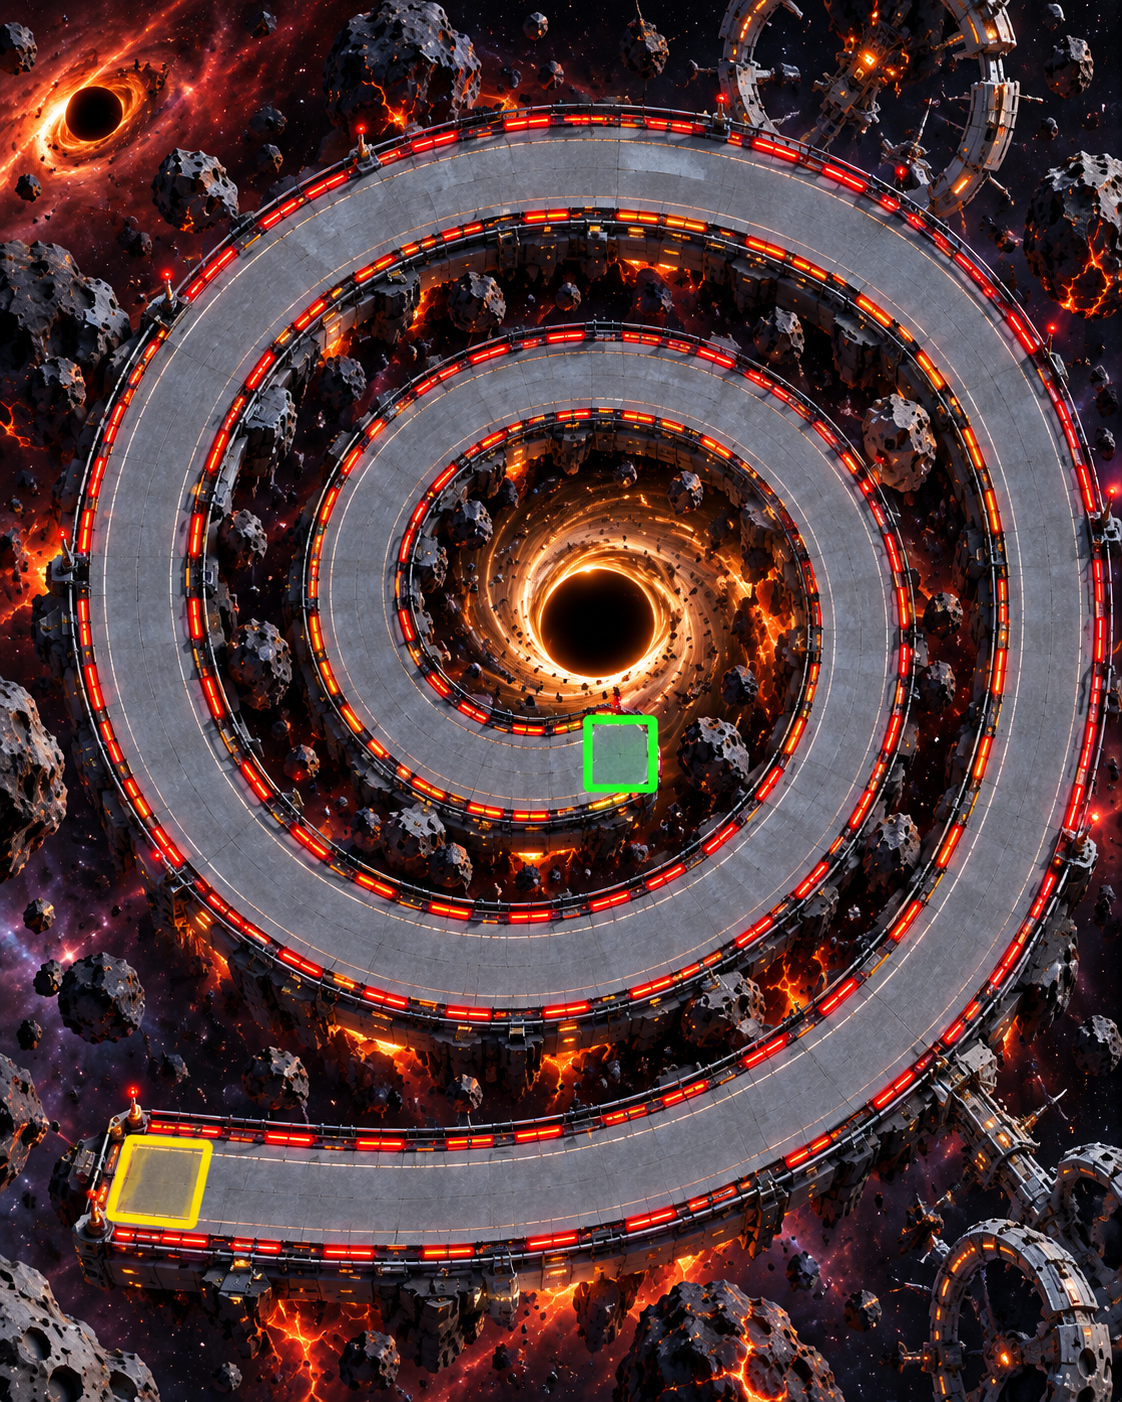
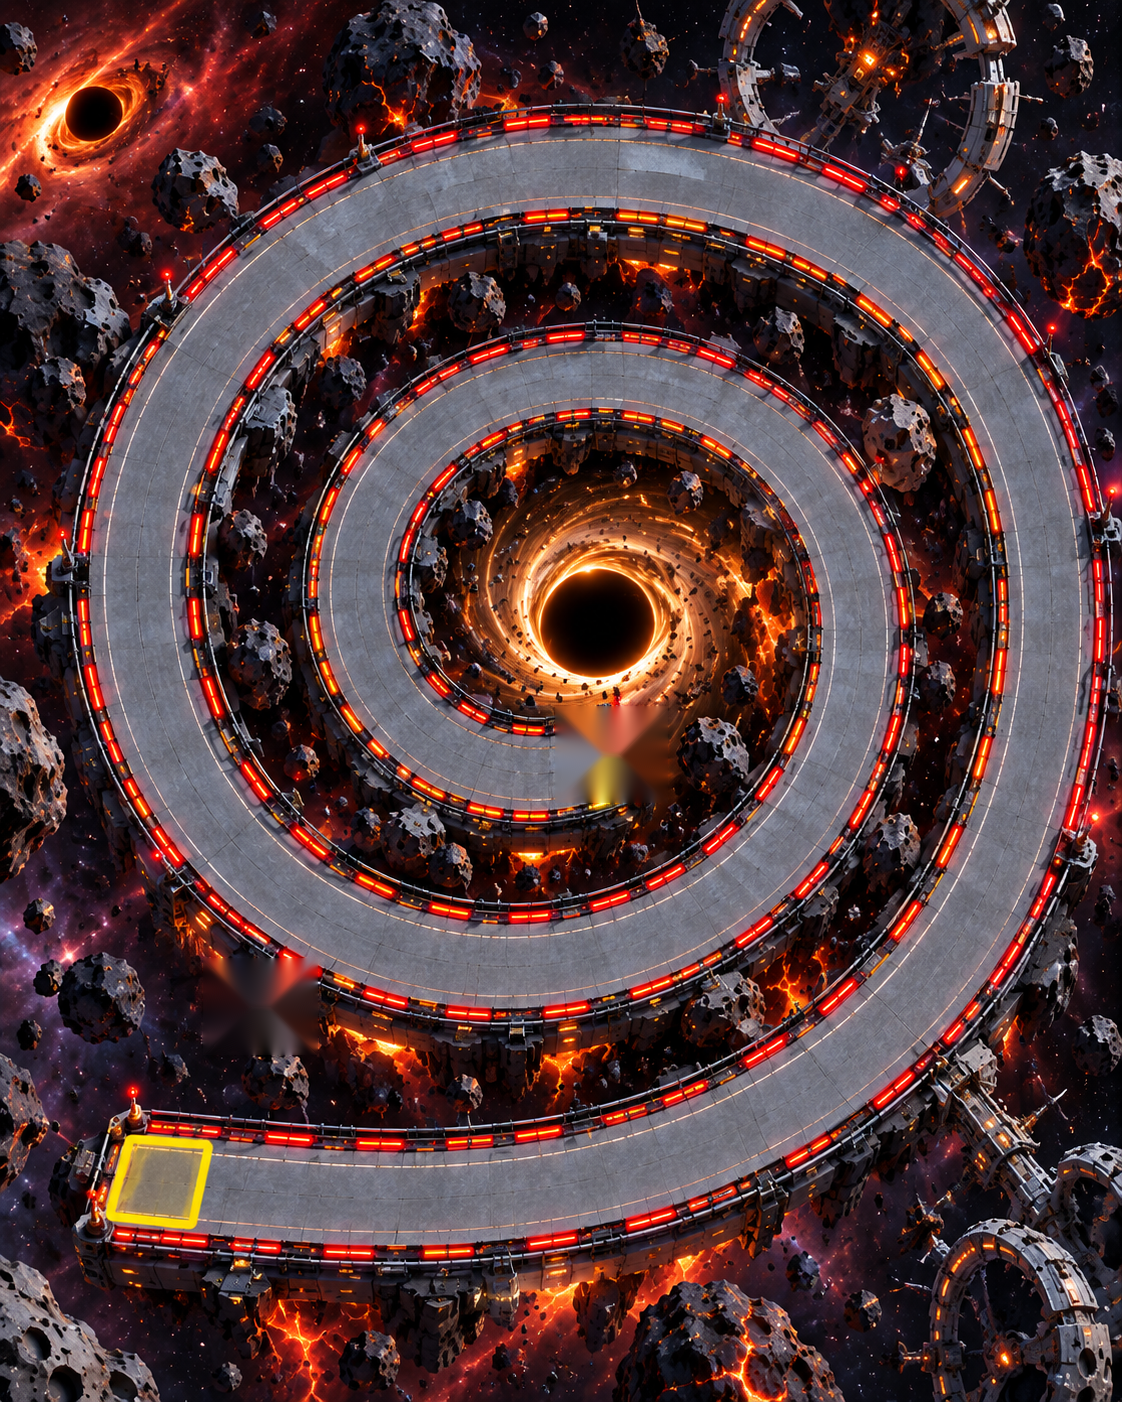
Add files via upload

Changed region(s): [[0.4991, 0.4907, 0.5927, 0.5827], [0.1872, 0.6748, 0.2807, 0.7668]]

diff --git a/game.js b/game.js
@@ -27,7 +27,7 @@
   const STUN_MS = 0;
   const INV_MS = 0;
   const CAMERA_ZOOM = 3.00;
-  const BUILD_ID = "v7.77";
+  const BUILD_ID = "v7.78";
 window.__OBSERVER_FM_BUILD__ = BUILD_ID;
 
   const RACER_KEYS=["A","B","C","D","E","F","G","H"];
@@ -269,7 +269,10 @@ window.__OBSERVER_FM_BUILD__ = BUILD_ID;
   function mapPoolPublic770(){
     return MAP_POOL_770.map(m=>({
       id:m.id,slot:m.slot,name:m.name,en:m.en,theme:m.theme,tags:[...(m.tags||[])],
-      geometryReady:!!m.geometryReady,special:{...(m.special||{})},observerProfile:m.observerProfile
+      geometryReady:!!m.geometryReady,special:{...(m.special||{})},observerProfile:m.observerProfile,
+      courseType:m.courseType775||"point-to-point",lapRequired:!!m.lapRequired775,
+      finishRule:m.finishRule775||"end-gate",sharedGate778:!!m.sharedGate778,
+      start:{...(m.start||{})},finish:{...(m.goal||{})}
     }));
   }
 
@@ -5798,6 +5801,56 @@ applyMapSet776();
   }
   applyGeometry777();
 
+  // ============================================================
+  // v7.78 — SHARED RED START/FINISH + ROAD-FOLLOWING LINE LIMIT
+  // Normal driving on new maps follows the traced road. Large apex/string-pull
+  // cuts are disabled so nearby parallel road sections cannot be mistaken for
+  // a legal macro shortcut. Observer EVADE/REJOIN remains independent.
+  // ============================================================
+  function conservativeRacingLine778(m){
+    let line=densifyLine772(m.route770||[],.82);
+    // One light legality-aware smoothing pass: removes polygonal kinks without
+    // creating a new macro chord across an inner island or adjacent road.
+    line=smoothLegalLine772(m,line,1);
+    line=densifyLine772(line,.68);
+    if(line.length<3)line=(m.route770||[]).map(q=>[q[0],q[1]]);
+    if(line.length){
+      line[0]=[m.route770[0][0],m.route770[0][1]];
+      line[line.length-1]=[m.route770[m.route770.length-1][0],m.route770[m.route770.length-1][1]];
+    }
+    return line;
+  }
+
+  function applyRoadFollow778(){
+    for(const m of MAP_POOL_770){
+      if(m.id==="s_map"){
+        m.sharedGate778=false;
+        continue;
+      }
+      const line=conservativeRacingLine778(m);
+      m.racingSpline770=line;
+      m.globalOptimal770=line;
+      m.racingLineMode772="generated-v7.78";
+      m.strictRoadFollow778=true;
+
+      const sx=(m.safeZones.start.x0+m.safeZones.start.x1)*.5;
+      const sy=(m.safeZones.start.y0+m.safeZones.start.y1)*.5;
+      const gx=(m.safeZones.goal.x0+m.safeZones.goal.x1)*.5;
+      const gy=(m.safeZones.goal.y0+m.safeZones.goal.y1)*.5;
+      m.sharedGate778=!!m.lapRequired775 && Math.hypot(sx-gx,sy-gy)<.75;
+    }
+    // Heart uses a visibly larger common gate as requested.
+    const heart=MAP_DEFINITIONS_770.neon_city;
+    if(heart?.sharedGate778){
+      const c=[heart.start.x,heart.start.y],h=7.0;
+      heart.safeZones={
+        start:{x0:c[0]-h,y0:c[1]-h,x1:c[0]+h,y1:c[1]+h},
+        goal:{x0:c[0]-h,y0:c[1]-h,x1:c[0]+h,y1:c[1]+h}
+      };
+    }
+  }
+  applyRoadFollow778();
+
   function mapLapRule775(m=currentMap770()){
     return {
       type:m.courseType775||"point-to-point",
@@ -6154,7 +6207,8 @@ applyMapSet776();
     const miss=(1-line739)*.58;
     const variance739=(1-ex.consistency)*.13;
     const stable=.88+variance739*Math.sin(progress*.035+(p.index||0)*.73);
-    let off=wideSide*Math.min(.70,Math.max(0,miss*stable));
+    const maxExecOff778=currentMap770().strictRoadFollow778?.28:.70;
+    let off=wideSide*Math.min(maxExecOff778,Math.max(0,miss*stable));
 
     // v7.31 local smoothing only:
     // reduce execution-offset authority through the two C1 transition curves so
@@ -6753,7 +6807,8 @@ applyMapSet776();
   function normalTarget720(p){
     const old=Number.isFinite(p._splineProg720)?p._splineProg720:nearestSplineProgress720(p.x,p.y);
     const prog=Math.max(old,Number(p._splineFloor754)||0);
-    const q=executedSplinePoint720(p,Math.min(RACING_SPLINE_SEGS_720.total,prog+8.0));
+    const look=currentMap770().strictRoadFollow778?4.2:8.0;
+    const q=executedSplinePoint720(p,Math.min(RACING_SPLINE_SEGS_720.total,prog+look));
     return {x:q.x,y:q.y,kind:"race720-normal"};
   }
 
@@ -8835,10 +8890,13 @@ targetOff=clampRoadOffset(si,targetOff,p);
     };
     const smx=(zones775.start.x0+zones775.start.x1)*.5,smy=(zones775.start.y0+zones775.start.y1)*.5;
     const gmx=(zones775.goal.x0+zones775.goal.x1)*.5,gmy=(zones775.goal.y0+zones775.goal.y1)*.5;
-    miniZone775(zones775.start,"#ffd92f");
-    if(Math.hypot(smx-gmx,smy-gmy)<.75){
-      miniZone775({...zones775.goal,x0:(zones775.goal.x0+zones775.goal.x1)*.5},"#39ff6a");
-    }else miniZone775(zones775.goal,"#39ff6a");
+    const shared778=!!currentMap770().sharedGate778 || Math.hypot(smx-gmx,smy-gmy)<.75;
+    if(shared778){
+      miniZone775(zones775.start,"#ff3b3b");
+    }else{
+      miniZone775(zones775.start,"#ffd92f");
+      miniZone775(zones775.goal,"#39ff6a");
+    }
 
     for(let i=0;i<players.length;i++){
       const p=players[i];
@@ -8892,11 +8950,15 @@ targetOff=clampRoadOffset(si,targetOff,p);
   function drawStartFinish775(view){
     if(!view)return;
     const zones=safeZones770();
-    const drawZone=(z,color)=>{
+    const drawZone=(z,color,fill=false)=>{
       const x=(z.x0-view.sx)*view.scale,y=(z.y0-view.sy)*view.scale;
       const w=(z.x1-z.x0)*view.scale,h=(z.y1-z.y0)*view.scale;
       if(x+w<0||y+h<0||x>canvas.width||y>canvas.height)return;
       ctx.save();
+      if(fill){
+        ctx.fillStyle="rgba(255,38,38,.72)";
+        ctx.fillRect(x,y,w,h);
+      }
       ctx.strokeStyle=color;
       ctx.lineWidth=Math.max(2.5,Math.min(6,view.scale*.75));
       ctx.shadowColor=color;ctx.shadowBlur=Math.max(2,view.scale*.7);
@@ -8905,11 +8967,9 @@ targetOff=clampRoadOffset(si,targetOff,p);
     };
     const scx=(zones.start.x0+zones.start.x1)*.5,scy=(zones.start.y0+zones.start.y1)*.5;
     const gcx=(zones.goal.x0+zones.goal.x1)*.5,gcy=(zones.goal.y0+zones.goal.y1)*.5;
-    const sameGate777=Math.hypot(scx-gcx,scy-gcy)<.75;
-    if(sameGate777){
-      drawZone(zones.start,"#ffd92f");
-      const g={...zones.goal,x0:(zones.goal.x0+zones.goal.x1)*.5};
-      drawZone(g,"#39ff6a");
+    const sameGate778=!!currentMap770().sharedGate778 || Math.hypot(scx-gcx,scy-gcy)<.75;
+    if(sameGate778){
+      drawZone(zones.start,"#ff3b3b",true);
     }else{
       drawZone(zones.start,"#ffd92f");
       drawZone(zones.goal,"#39ff6a");
@@ -10607,11 +10667,13 @@ function seasonCardHtml(p){
     if(names.length!==12||new Set(names).size!==12)issues.push("선수12");
     if(OBSERVER_COUNT!==130)issues.push("옵저버130");
     if(MAP_POOL_770.length!==9)issues.push("맵풀9-777");
-    if(!MAP_POOL_770.every(m=>m.geometryReady&&m.route770&&m.racingSpline770))issues.push("11맵지오메트리");
+    if(!MAP_POOL_770.every(m=>m.geometryReady&&m.route770&&m.racingSpline770))issues.push("9맵지오메트리");
     if(MAP_POOL_770.some(m=>m.id!=="s_map"&&(m.extraRoads771||[]).length))issues.push("임의지름길");
-    if(MAP_POOL_770.some(m=>m.id!=="s_map"&&m.racingLineMode772!=="generated-v7.77"))issues.push("레이싱라인775");
+    if(MAP_POOL_770.some(m=>m.id!=="s_map"&&m.racingLineMode772!=="generated-v7.78"))issues.push("레이싱라인775");
     if([...CIRCUIT_MAPS_775].some(id=>!MAP_DEFINITIONS_770[id]?.lapRequired775))issues.push("폐회로완주775");
     if([...POINT_TO_POINT_MAPS_775].some(id=>MAP_DEFINITIONS_770[id]?.lapRequired775))issues.push("P2P완주775");
+    if([...CIRCUIT_MAPS_775].some(id=>!MAP_DEFINITIONS_770[id]?.sharedGate778))issues.push("공용빨강게이트778");
+    if(MAP_POOL_770.some(m=>m.id!=="s_map"&&!m.strictRoadFollow778))issues.push("도로추종778");
     if(MAP_POOL_770.some(m=>m.id!=="s_map"&&!m.approvedImageShape772))issues.push("확정맵이미지");
     if(!currentMap770().geometryReady||route.length<2||RACING_SPLINE_720.length<2)issues.push("맵지오메트리");
     if(MAP_POOL_770.length!==9)issues.push("9맵구성777");

diff --git a/index.html b/index.html
@@ -6,7 +6,7 @@
   <meta http-equiv="Expires" content="0">
   <meta charset="utf-8">
   <meta name="viewport" content="width=device-width,initial-scale=1">
-  <title>Observer Avoid FM v7.77 — Road Geometry QA</title>
+  <title>Observer Avoid FM v7.78 — Road Follow</title>
   <link rel="stylesheet" href="style.css">
 
   <style id="mapSelectStyle774">
@@ -44,7 +44,7 @@
   <header class="topbar">
     <div>
       <h1>Observer Avoid FM</h1>
-      <p>v7.77 · ROAD GEOMETRY QA · OBS 130 · HIT 0.56</p>
+      <p>v7.78 · ROAD FOLLOW · OBS 130 · HIT 0.56</p>
     </div>
     
     <div class="controls">
@@ -65,7 +65,7 @@
     <section class="broadcast">
       <div class="livebar">
         <span class="live-dot"></span><b>LIVE</b>
-        <span id="cameraLabel">v7.77 · ROAD GEOMETRY QA · OBS 130 · HIT 0.56</span>
+        <span id="cameraLabel">v7.78 · ROAD FOLLOW · OBS 130 · HIT 0.56</span>
         <button id="focusModeBtn" class="focus-mode-btn" type="button">게임 전체화면</button>
         <select id="povSelect" class="focus-mode-btn" title="AI 선수 POV"><option value="-1">POV: OFF</option></select>
         <button id="pauseBtn" class="pause-btn" type="button">⏸ 일시정지</button>
@@ -140,7 +140,7 @@
         </div>
       </section>
 
-      <div class="qa-final-strip">v7.77 · ROAD GEOMETRY QA · OBS 130 · HIT 0.56</div>
+      <div class="qa-final-strip">v7.78 · ROAD FOLLOW · OBS 130 · HIT 0.56</div>
       <div class="highlight-title">선수 경기 평점</div>
       <div id="matchRatings" class="match-ratings"></div>
       <div class="highlight-title">경기 분석 리포트</div>
@@ -226,6 +226,6 @@
     </div>
   </div>
 
-  <script src="game.js?v=7.77-road-geometry-qa"></script>
+  <script src="game.js?v=7.78-red-gate-road-follow"></script>
 </body>
 </html>
